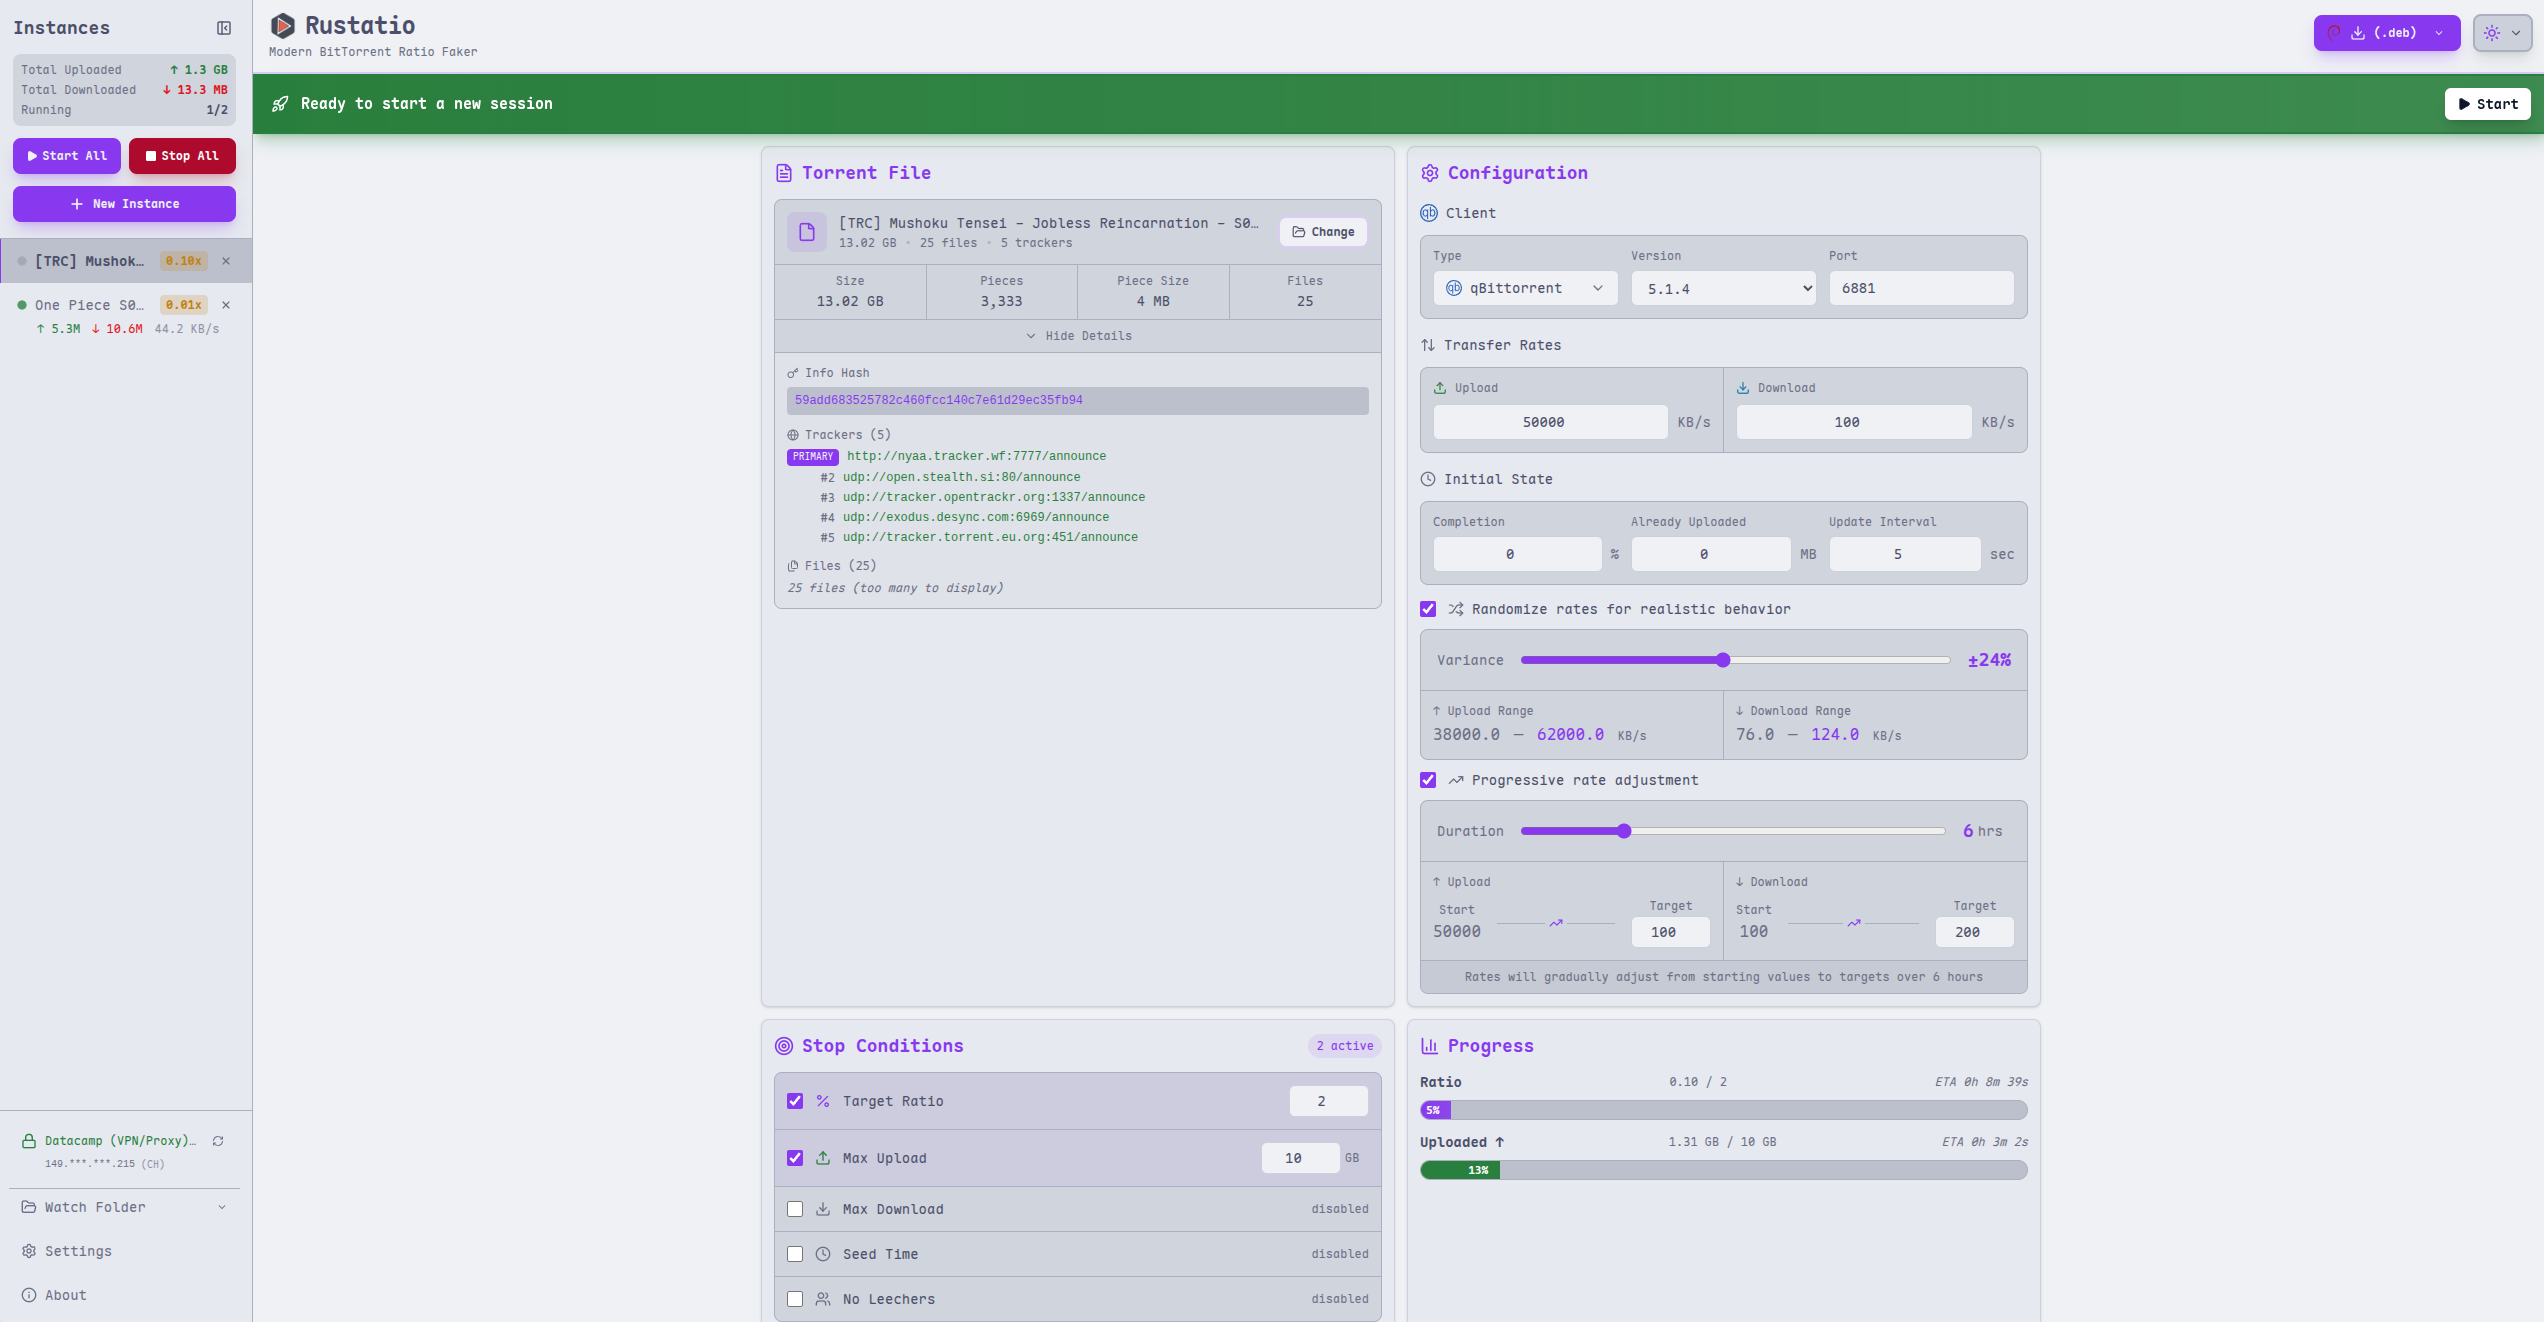
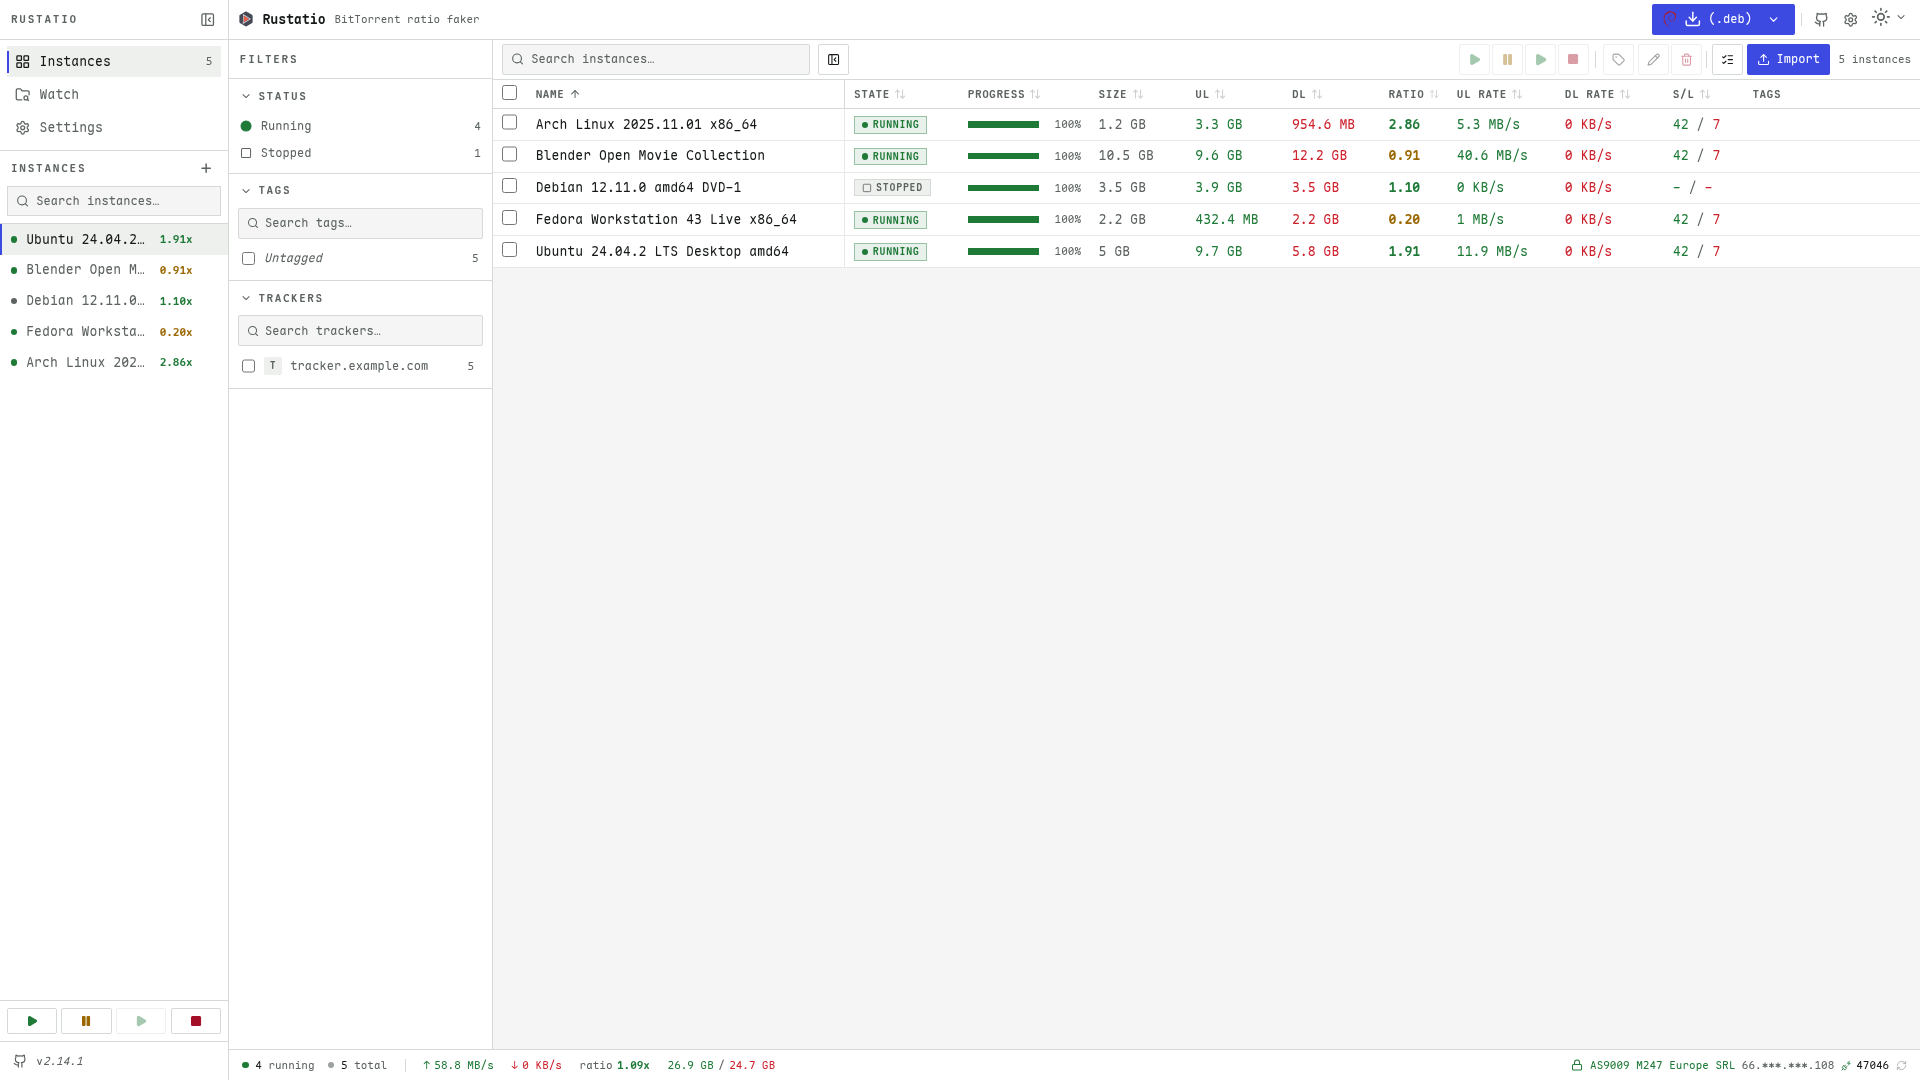
docs: add new screenshots

diff --git a/README.md b/README.md
@@ -13,7 +13,9 @@ Accurately simulate seeding behavior by emulating **uTorrent**, **qBittorrent**,
 
 ## 🎥 Demo
 
-[https://github.com/user-attachments/assets/2285bd54-95f3-4a56-b62a-978465abfa0f](https://github.com/user-attachments/assets/2285bd54-95f3-4a56-b62a-978465abfa0f)
+A quick walkthrough of the instance grid, torrent details, performance charts, Watch folder, and theme switching.
+
+[https://github.com/user-attachments/assets/fb4feeb9-b08e-4326-856b-2c3b4fd745de](https://github.com/user-attachments/assets/fb4feeb9-b08e-4326-856b-2c3b4fd745de)
 
 ## 📸 Screenshots
 
@@ -40,9 +42,32 @@ Accurately simulate seeding behavior by emulating **uTorrent**, **qBittorrent**,
   </tr>
 </table>
 
+<p align="center"><sub>Main screenshot set captured with the optional WireGuard VPN integration enabled.</sub></p>
+
+### 📥 Watch Folder
+
+Rustatio can monitor a directory and automatically load new `.torrent` files as they appear. The Watch tab shows loaded, pending, and invalid files with per-file reload and delete controls.
+
+<p align="center">
+  <img src="screenshots/watch.png" alt="Rustatio Watch Folder">
+  <br>
+  <em>Watch Folder - Automatic Torrent Imports</em>
+</p>
+
+### 🎨 Themes
+
+Rustatio includes 15 built-in themes across five families. Choose one from **Settings → Theme**.
+
+<p align="center">
+  <img src="screenshots/themes.png" alt="Rustatio built-in themes">
+  <br>
+  <em>Catppuccin Latte, Tokyo Night, Dracula, and Gruvbox Dark</em>
+</p>
+
 ## Features
 
 - **Modern GUI**: Built with Tauri and Svelte 5
+- **15 built-in themes**: Default, Catppuccin, Tokyo Night, Dracula, and Gruvbox palettes
 - **Cross-platform**: Linux, Windows, and macOS
 - **Client emulation**: uTorrent, qBittorrent, Transmission, Deluge, BitTorrent, and rTorrent
 - **Multi-instance support**: Run and manage multiple torrents at the same time
